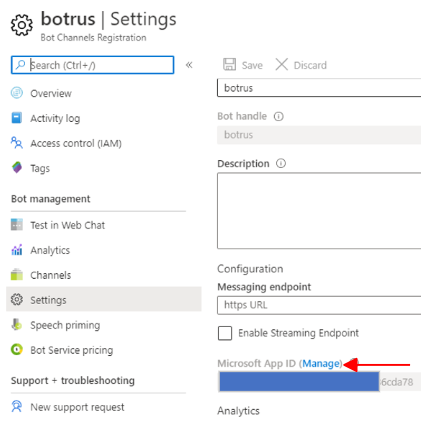
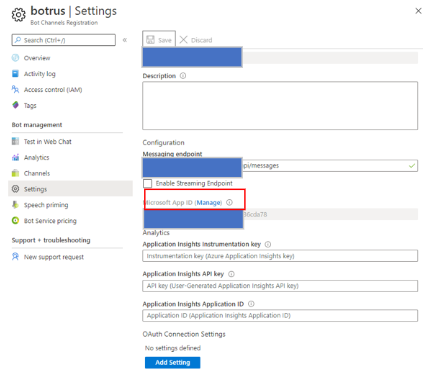
Fixed content

diff --git a/articles/bot-service-manage-settings.md b/articles/bot-service-manage-settings.md
@@ -9,13 +9,13 @@ ms.topic: article
 ms.service: bot-service
 ms.date: 12/13/2017
 ---
-# Configure bot settings
+# Configure bot registration settings
 
-The bot settings, such as Display name, Icon, and Application Insights, can be viewed and modified on its **Settings** blade.
+The bot registration settings, such as display name, icon, and application insights, can be viewed and modified in the **Settings** panel.
 
-![The bot settings blade](media/bot-service-portal-configure-settings/bot-service-settings.png)
+![bot registration settings](media/bot-service-portal-configure-settings/bot-service-settings.png)
 
-Below is the list of fields on the **Settings** blade:
+Below is the list the **Settings** fields:
 
 > [!div class="mx-tdBreakAll"]
 > | Field <img width="300px"/>| Description |
@@ -30,6 +30,35 @@ Below is the list of fields on the **Settings** blade:
 > | Application Insights Application ID | Unique key for bot analytics. Copy your Azure Insights Application ID Key to this field if you want to view analytics about your bot in the Dashboard. This value is optional. Bots created in the Azure Portal will have this key generated for them. For more details on this field, see [Application Insights keys](~/bot-service-resources-app-insights-keys.md). |
 
 After you have changed settings for your bot, click the **Save** button at the top of the blade to save your new bot settings.
+
+## Application ID and Password
+
+The registration application ID and password are assigned to the bot's variables `MicrosoftAppID` and `MicrosoftAppPassword` in the files `appsettings.json` (C#) and `.env` (Javascript).
+
+> [!NOTE]
+> The Bot Channels Registration has an application ID but because there is no app service associated with it, there is no password. You must generate one. To generate the password follow the steps described below.
+
+## Get the registration application password
+
+A registration application has an **application ID** (app ID) and a **password** associated with it.
+The Azure Bot Service assigns a unique application ID to the application. You can obtain the password following the steps described below.
+
+1. In your browser, navigate to the [Azure portal](https://ms.portal.azure.com).
+1. In the resource list, click on the registration application name.
+1. Im the right panel, in the *Bot Management* section, click  **Settings**. The registration application *Settings* page is displayed.
+1. Click the **Manage** link by *Microsoft App ID*.
+
+    ![bot registration settings password](media/azure-bot-quickstarts/bot-channels-registration-password.png)
+
+1. In the *Certificates & secrets* displayed page, click the **New client secret** button.
+
+    ![Create registration bot blade](media/azure-bot-quickstarts/bot-channels-registration-app-secrets.png)
+
+1. Add the description, select the expiration time, and click the **Add** button.
+
+    ![Create registration bot blade](media/azure-bot-quickstarts/bot-channels-registration-app-secrets-create.png)
+
+    This will generate a new password for your bot. Copy this password and save it to a file. This is the only time you will see this password. If you do not have the full password saved, you will need to repeat the process to create a new password should you need it later.
 
 ## Additional Information
 

diff --git a/articles/bot-service-quickstart-registration.md b/articles/bot-service-quickstart-registration.md
@@ -17,7 +17,7 @@ This article shows how to register a bot with **Azure Bot Service**. This useful
 > You only need to register a bot if it is not hosted in Azure.
 If you created a bot using the Azure portal or the Command Line Interface (CLI) then the bot is already registered with the Azure Bot Service. For more information, see [Deploy your bot](bot-builder-deploy-az-cli.md) and [Create a bot with Azure Bot Service](v4sdk/abs-quickstart.md).
 
-## Create a registration resource
+## Create a registration application
 
 1. In your browser, navigate to the [Azure portal](https://ms.portal.azure.com).
 
@@ -36,12 +36,12 @@ If you created a bot using the Azure portal or the Command Line Interface (CLI) 
 > [!div class="mx-tdBreakAll"]
 >   |Setting |Suggested value|Description|
 >   |---|---|--|
->   |**Bot name** <img width="300px"|\<Your bot display name>|The display name for the bot that appears in channels and directories. This name can be changed at anytime.|
+>   |**Bot name** <img width="300px"/>|\<Your bot display name>|The display name for the bot that appears in channels and directories. This name can be changed at anytime.|
 >   |**Subscription**|\<Your subscription>|Select the Azure subscription you want to use.|
 >   |**Resource Group**|\<Your resource group name>|You can create a new [resource group](/azure/azure-resource-manager/resource-group-overview#resource-groups) or select an existing one.|
 >   |**Location**|West US|Choose the geographic location for your resource group. It's usually best to choose a location close to you. The location cannot be changed once the resource group is created.|
 >   |**Pricing tier**|F0|Select a pricing tier. You may update the pricing tier at any time. For more information, see [Bot Service pricing](https://azure.microsoft.com/pricing/details/bot-service/).|
->   |**Messaging endpoint**|https://\<your bot name>.azurewebsites.net/api/messages|Enter the URL for your bot's messaging endpoint.|
+>   |**Messaging endpoint**|https://\<your bot name>.azurewebsites.net/api/messages|Enter the URL for your bot's messaging endpoint. You can leave this field empty, you will enter the required URL after deploying the bot.|
 >   |**Application Insights**|On| Decide if you want to turn [Application Insights](bot-service-manage-analytics.md) **On** or **Off**. If you select **On**, you must also specify a regional location. |
 >   |**Microsoft App ID and password**| Auto create App ID and password |Use this option if you need to manually enter a Microsoft App ID and password. See the next section [Manual app registration](#manual-app-registration). Otherwise, a new Microsoft App ID and password will be created in the registration process. |
 
